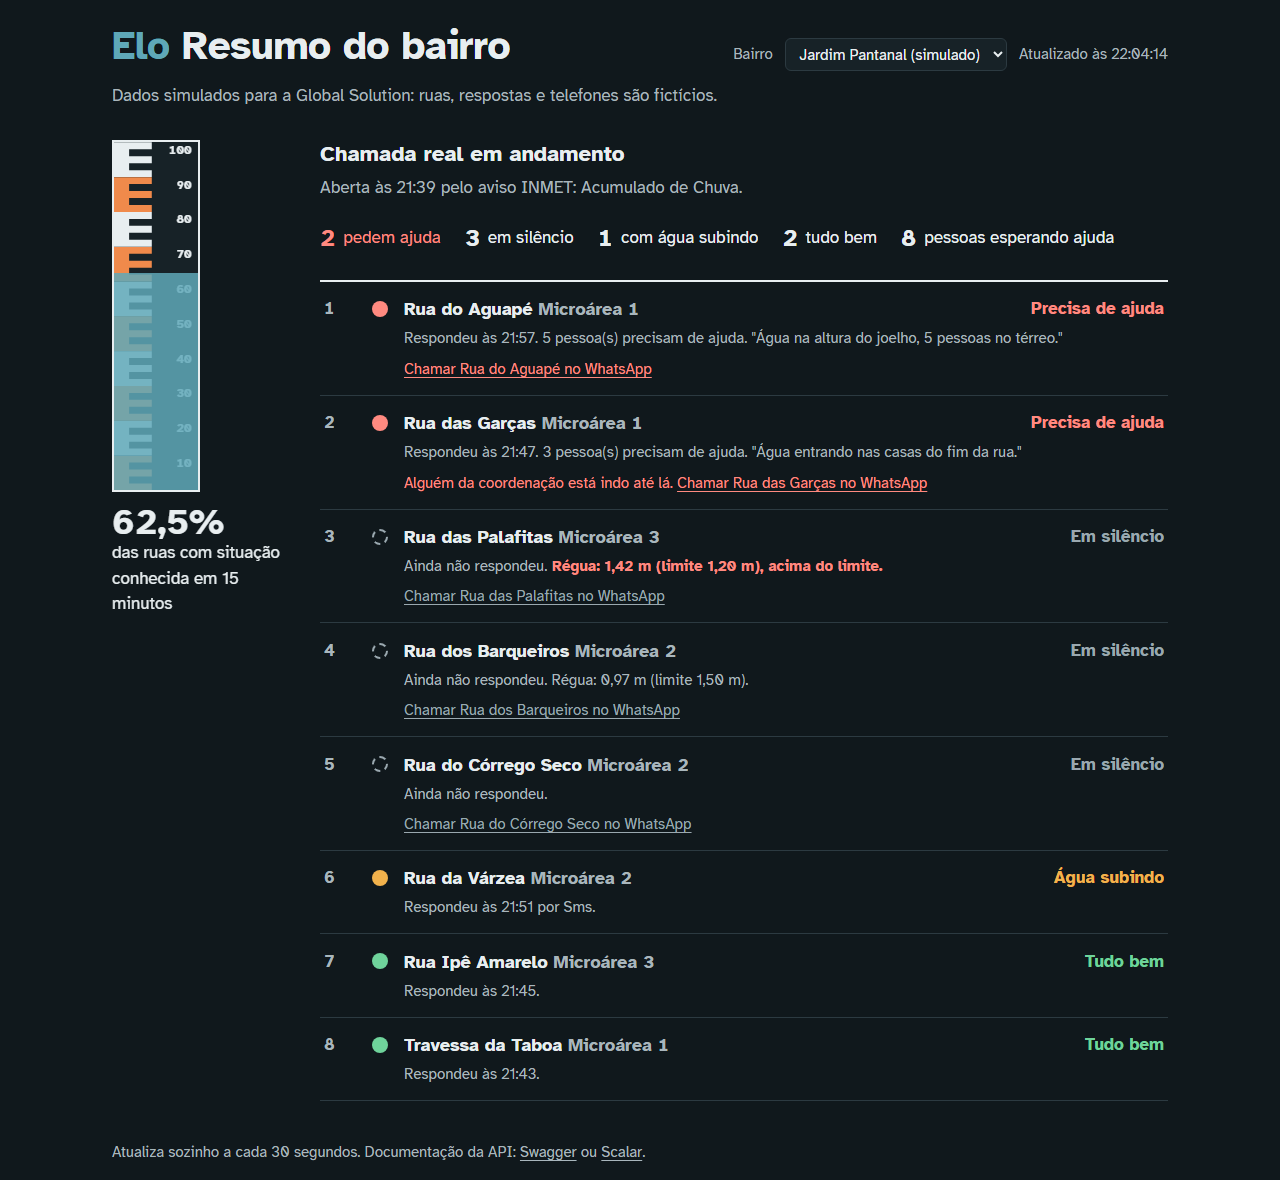
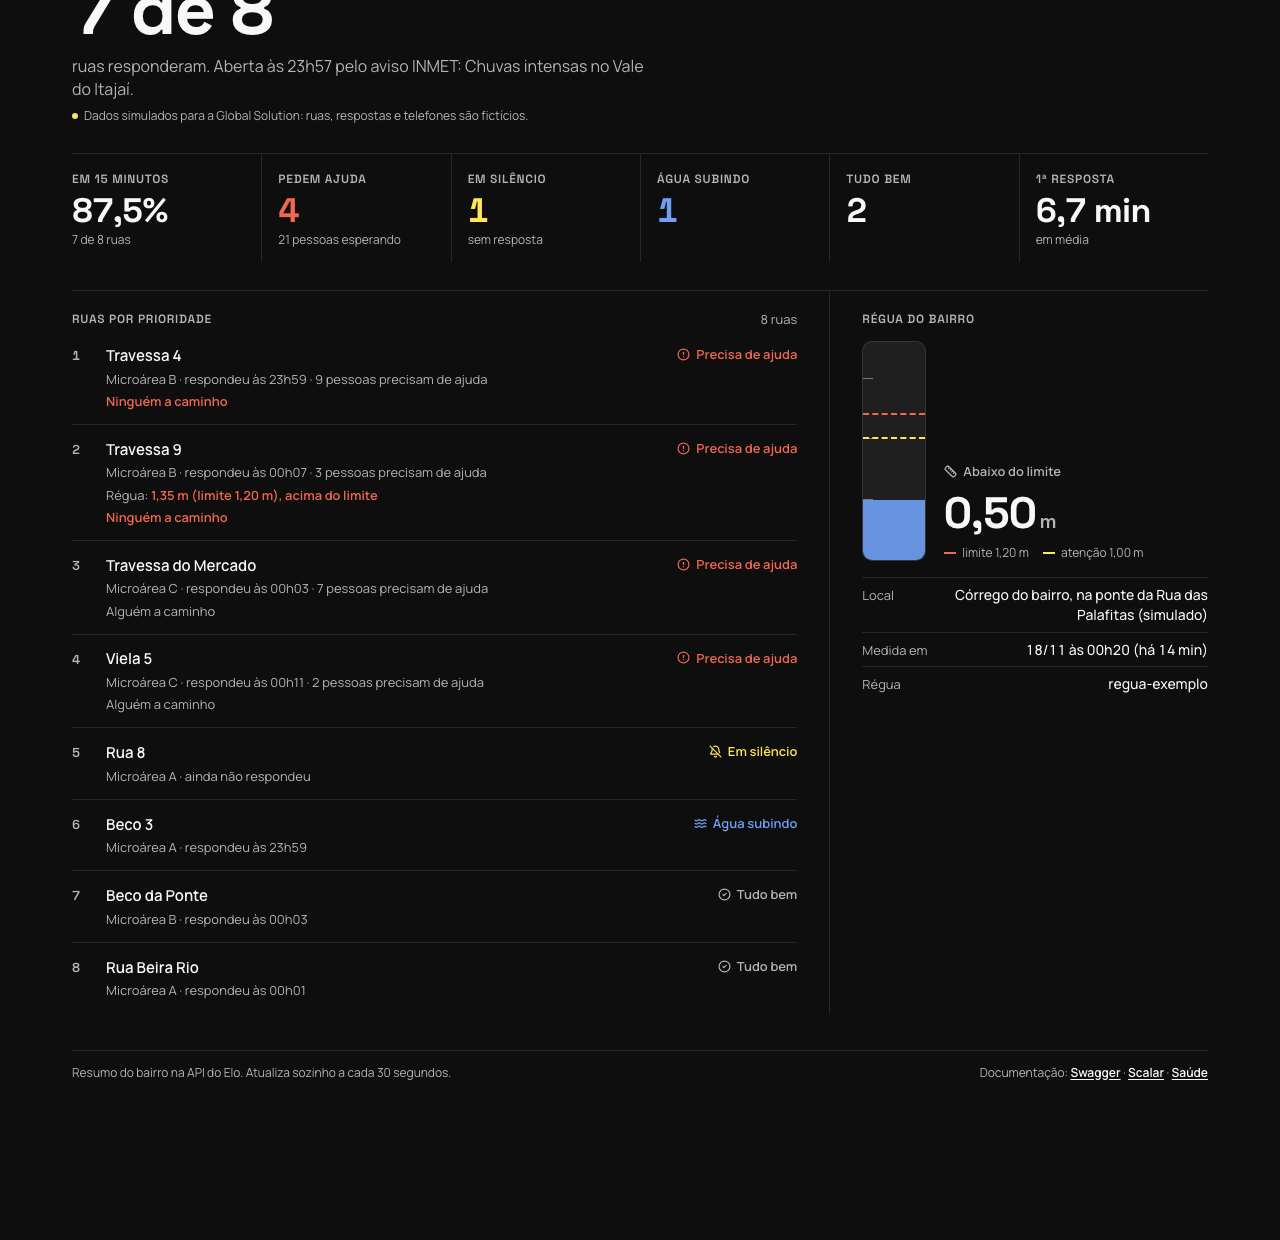
Atualiza o README com o endereço público e a imagem da página nova
A tabela de endereços descreve a página do resumo com a estética do Elo, o exemplo do app usa a API publicada no Azure e a evidência mostra a página nova.

diff --git a/README.md b/README.md
@@ -86,8 +86,10 @@ Na primeira execução a API aplica as migrations, cria o arquivo `src/Elo.Api/e
 | http://localhost:5080/swagger | Documentação e testes no **Swagger UI** |
 | http://localhost:5080/scalar | A mesma documentação no **Scalar** |
 | http://localhost:5080/openapi/v1.json | Documento OpenAPI 3.1 |
-| http://localhost:5080/ | Página simples do resumo do bairro (para a VM de Sistemas Operacionais) |
+| http://localhost:5080/ | Resumo do bairro com a cara do Elo: chamada aberta, ruas por prioridade e a última leitura da régua |
 | http://localhost:5080/health | Saúde da API e do banco |
+
+A mesma API está publicada na internet em **http://elo-api-fiap.azurewebsites.net**, com as mesmas rotas (veja "Endereço público da entrega" abaixo).
 
 O arquivo [`src/Elo.Api/Elo.Api.http`](src/Elo.Api/Elo.Api.http) tem o roteiro de requisições pronto para o Visual Studio, Rider ou VS Code (REST Client).
 Para começar do zero, pare a API e apague `src/Elo.Api/elo.db`.
@@ -150,8 +152,10 @@ Conferir de fora: `GET /health` responde 200; `POST /leituras` com o header `X-C
 Basta apontar para a API, sem `/api` no final:
 
 ```bash
-EXPO_PUBLIC_API_URL=http://<ip-da-maquina>:5080
+EXPO_PUBLIC_API_URL=http://elo-api-fiap.azurewebsites.net
 ```
+
+Com a API rodando no computador, use `http://<ip-da-maquina>:5080` (o celular não alcança `localhost`).
 
 A resposta da liderança só entra se houver **chamada aberta** no bairro (o coordenador abre pelo Swagger:
 `POST /api/bairros/1/chamadas`). Nos dados simulados já existe uma aberta. O bairro atendido pelas rotas do app é o
@@ -420,7 +424,7 @@ classDiagram
 - [`docs/evidencias/fluxo-completo.md`](docs/evidencias/fluxo-completo.md): 27 requisições reais feitas contra a API rodando, em quatro partes: a API completa (painel antes e depois, reenvio offline, erros 400/404/409/422), as **rotas do contrato do app e do ESP32** (`/situacao`, `/chamadas`, `/leituras` com 401 sem chave e 204 com chave, `/regua`, `/ruas/{id}/plano`), o fim da chamada com o indicador e os **avisos reais do INMET** (148.353 bytes do INMET viraram 2.333 bytes para o município).
 - [`docs/evidencias/resultado-dos-testes.txt`](docs/evidencias/resultado-dos-testes.txt): os 154 testes aprovados.
 
-**Página do resumo do bairro** (a régua mostra o indicador de 15 minutos; ruas em silêncio têm o marcador vazado):
+**Página do resumo do bairro** (http://elo-api-fiap.azurewebsites.net): a chamada aberta, os números da chamada, as ruas em ordem de prioridade e a régua do bairro com o limite e o nível de atenção, com as fontes, as cores e o logo do app e do painel:
 
 ![Resumo do bairro](docs/evidencias/01-resumo-do-bairro.png)
 
